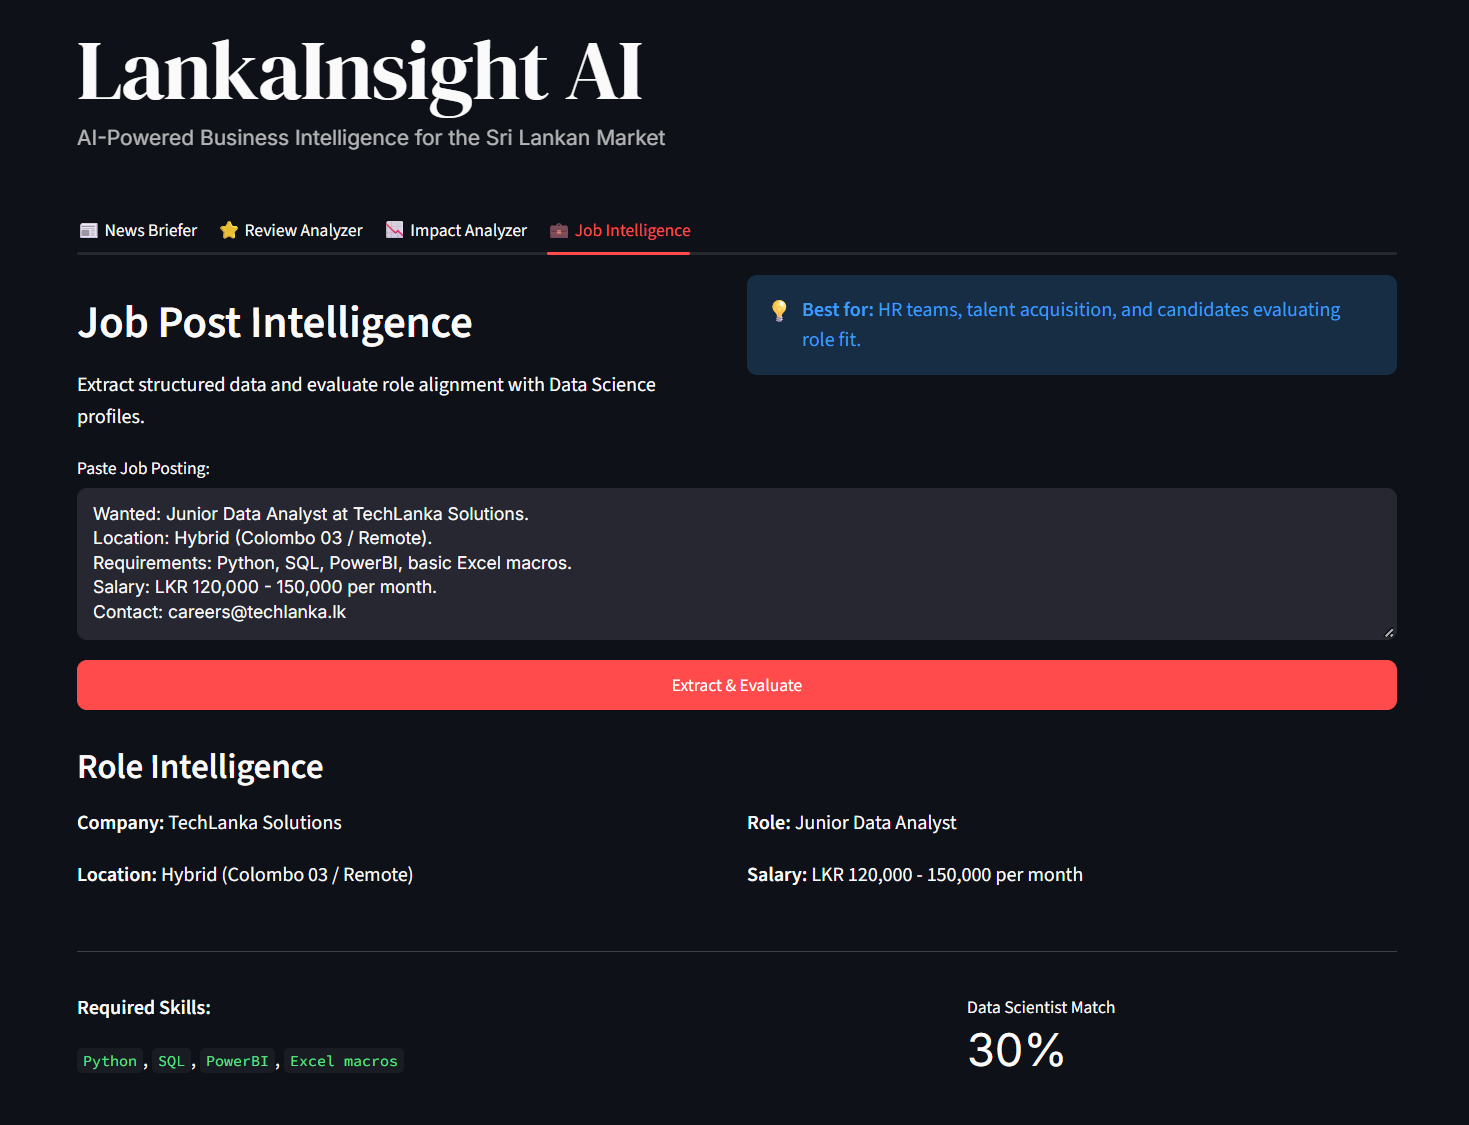
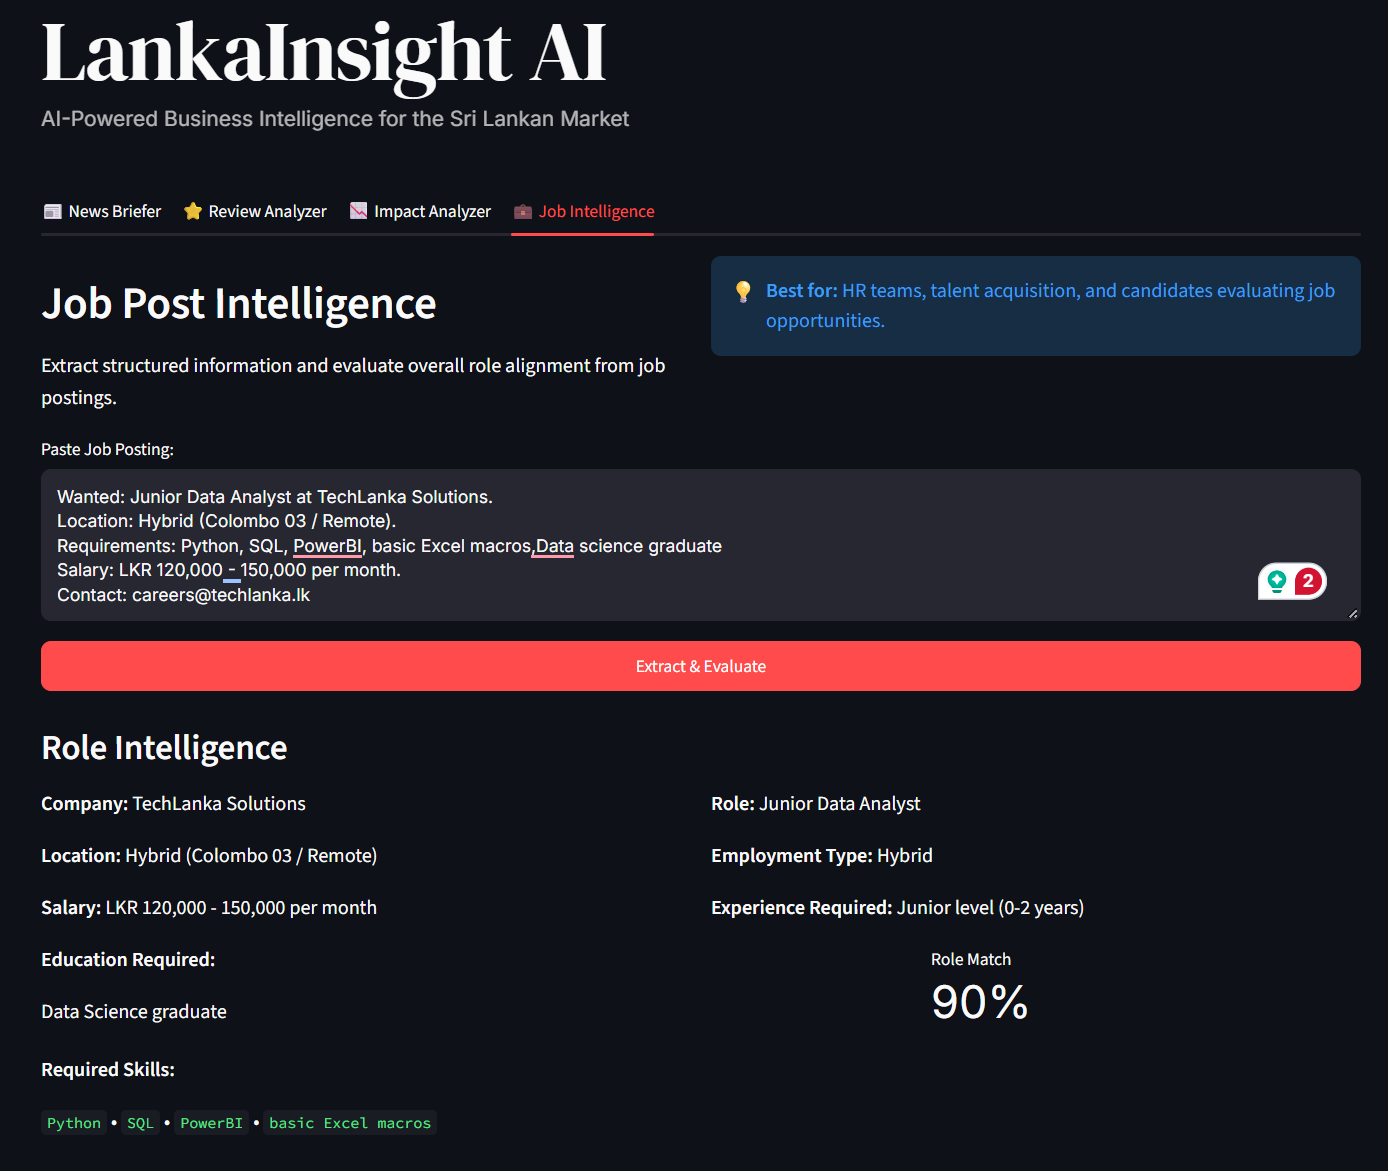
Refine job posting analysis and output structure for improved clarity and flexibility

diff --git a/app.py b/app.py
@@ -366,13 +366,13 @@ with tab4:
     with header_col:
         st.header("Job Post Intelligence")
         st.markdown(
-            "Extract structured data and evaluate role alignment with Data Science profiles."
+            "Extract structured information and evaluate overall role alignment from job postings."
         )
 
     with info_col:
         st.info(
             "💡 **Best for:** HR teams, talent acquisition, "
-            "and candidates evaluating role fit."
+            "and candidates evaluating job opportunities."
         )
 
     # Job Posting Input
@@ -395,11 +395,15 @@ Contact: careers@techlanka.lk"""
         use_container_width=True
     ):
 
-        prompt = f"""You are a Technical Recruiter specializing in Data Science and Analytics roles in Sri Lanka.
+        prompt = f"""You are a Technical Recruiter and Job Market Analyst.
 
-Extract information from the job posting below into a strict JSON object.
+Analyze the job posting below and extract the key information into a strict JSON object.
 
-Additionally, calculate a "match_score" (0-100) representing how well this role matches a standard "Data Scientist" profile (which heavily weights Machine Learning, Python, SQL, and Statistical Modeling).
+The analysis should be role-independent and suitable for different types of jobs, including Data Science, Analytics, Software Engineering, Business, IT, Marketing, Finance, and other professional roles.
+
+Calculate a "match_score" (0-100) representing the overall alignment of the job opportunity with the requirements, skills, experience, and qualifications stated in the job posting.
+
+Do not assume the role is a Data Scientist or any other specific profession.
 
 Output the JSON object.
 
@@ -409,8 +413,11 @@ JSON Schema:
   "company_name": "string",
   "role": "string",
   "location": "string",
+  "employment_type": "string",
   "salary_range": "string",
   "required_skills": ["string"],
+  "experience_required": "string",
+  "education_required": "string",
   "match_score": integer
 }}
 
@@ -422,6 +429,7 @@ Job Posting:
 """
 
         with st.spinner("Parsing job requirements..."):
+
             raw_result = call_groq(
                 prompt,
                 temperature=0.0,
@@ -453,7 +461,7 @@ Job Posting:
                 )
 
             # ------------------------------------------
-            # Location and Salary
+            # Location and Employment Type
             # ------------------------------------------
 
             c3, c4 = st.columns(2)
@@ -466,45 +474,74 @@ Job Posting:
 
             with c4:
                 st.markdown(
+                    f"**Employment Type:** "
+                    f"{parsed_data.get('employment_type', 'N/A')}"
+                )
+
+            # ------------------------------------------
+            # Salary and Experience
+            # ------------------------------------------
+
+            c5, c6 = st.columns(2)
+
+            with c5:
+                st.markdown(
                     f"**Salary:** "
                     f"{parsed_data.get('salary_range', 'N/A')}"
                 )
 
-            st.divider()
-
-            # ------------------------------------------
-            # Required Skills + Match Score
-            # ------------------------------------------
-
-            c5, c6 = st.columns([2, 1])
-
-            with c5:
-                st.markdown("**Required Skills:**")
-
-                skills = parsed_data.get(
-                    "required_skills",
-                    []
+            with c6:
+                st.markdown(
+                    f"**Experience Required:** "
+                    f"{parsed_data.get('experience_required', 'N/A')}"
                 )
 
-                if skills:
-                    st.write(
-                        ", ".join(
-                            [f"`{skill}`" for skill in skills]
-                        )
-                    )
-                else:
-                    st.write("N/A")
+            # ------------------------------------------
+            # Education + Match Score
+            # ------------------------------------------
 
-            with c6:
+            c7, c8 = st.columns([2, 1])
+
+            with c7:
+                st.markdown("**Education Required:**")
+
+                st.write(
+                    parsed_data.get(
+                        "education_required",
+                        "N/A"
+                    )
+                )
+
+            with c8:
                 match_score = parsed_data.get(
                     "match_score",
                     0
                 )
 
                 st.metric(
-                    "Data Scientist Match",
+                    "Role Match",
                     f"{match_score}%"
                 )
+
+            # ------------------------------------------
+            # Required Skills
+            # ------------------------------------------
+
+            st.markdown("**Required Skills:**")
+
+            skills = parsed_data.get(
+                "required_skills",
+                []
+            )
+
+            if skills:
+                st.write(
+                    " • ".join(
+                        [f"`{skill}`" for skill in skills]
+                    )
+                )
+            else:
+                st.write("N/A")
 
         else:
 
